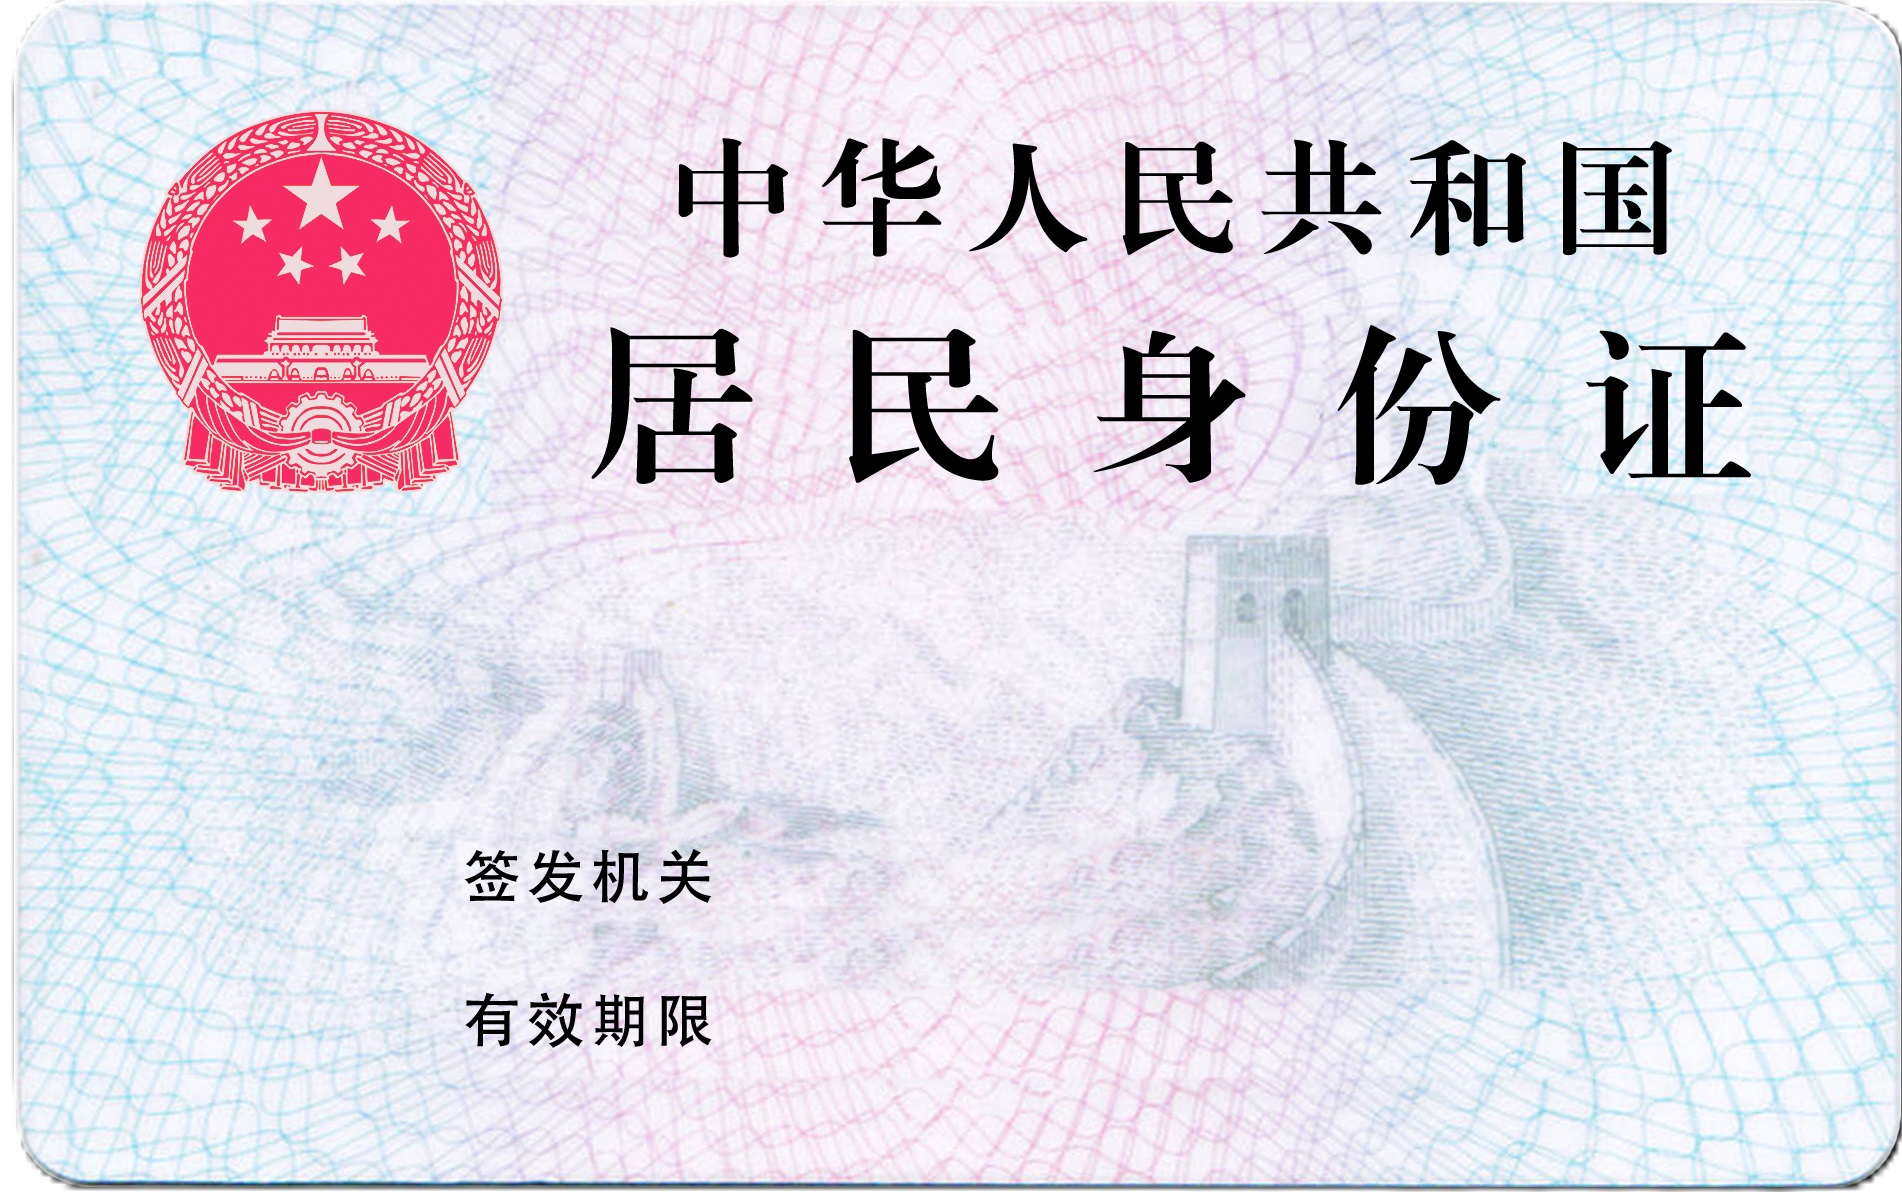
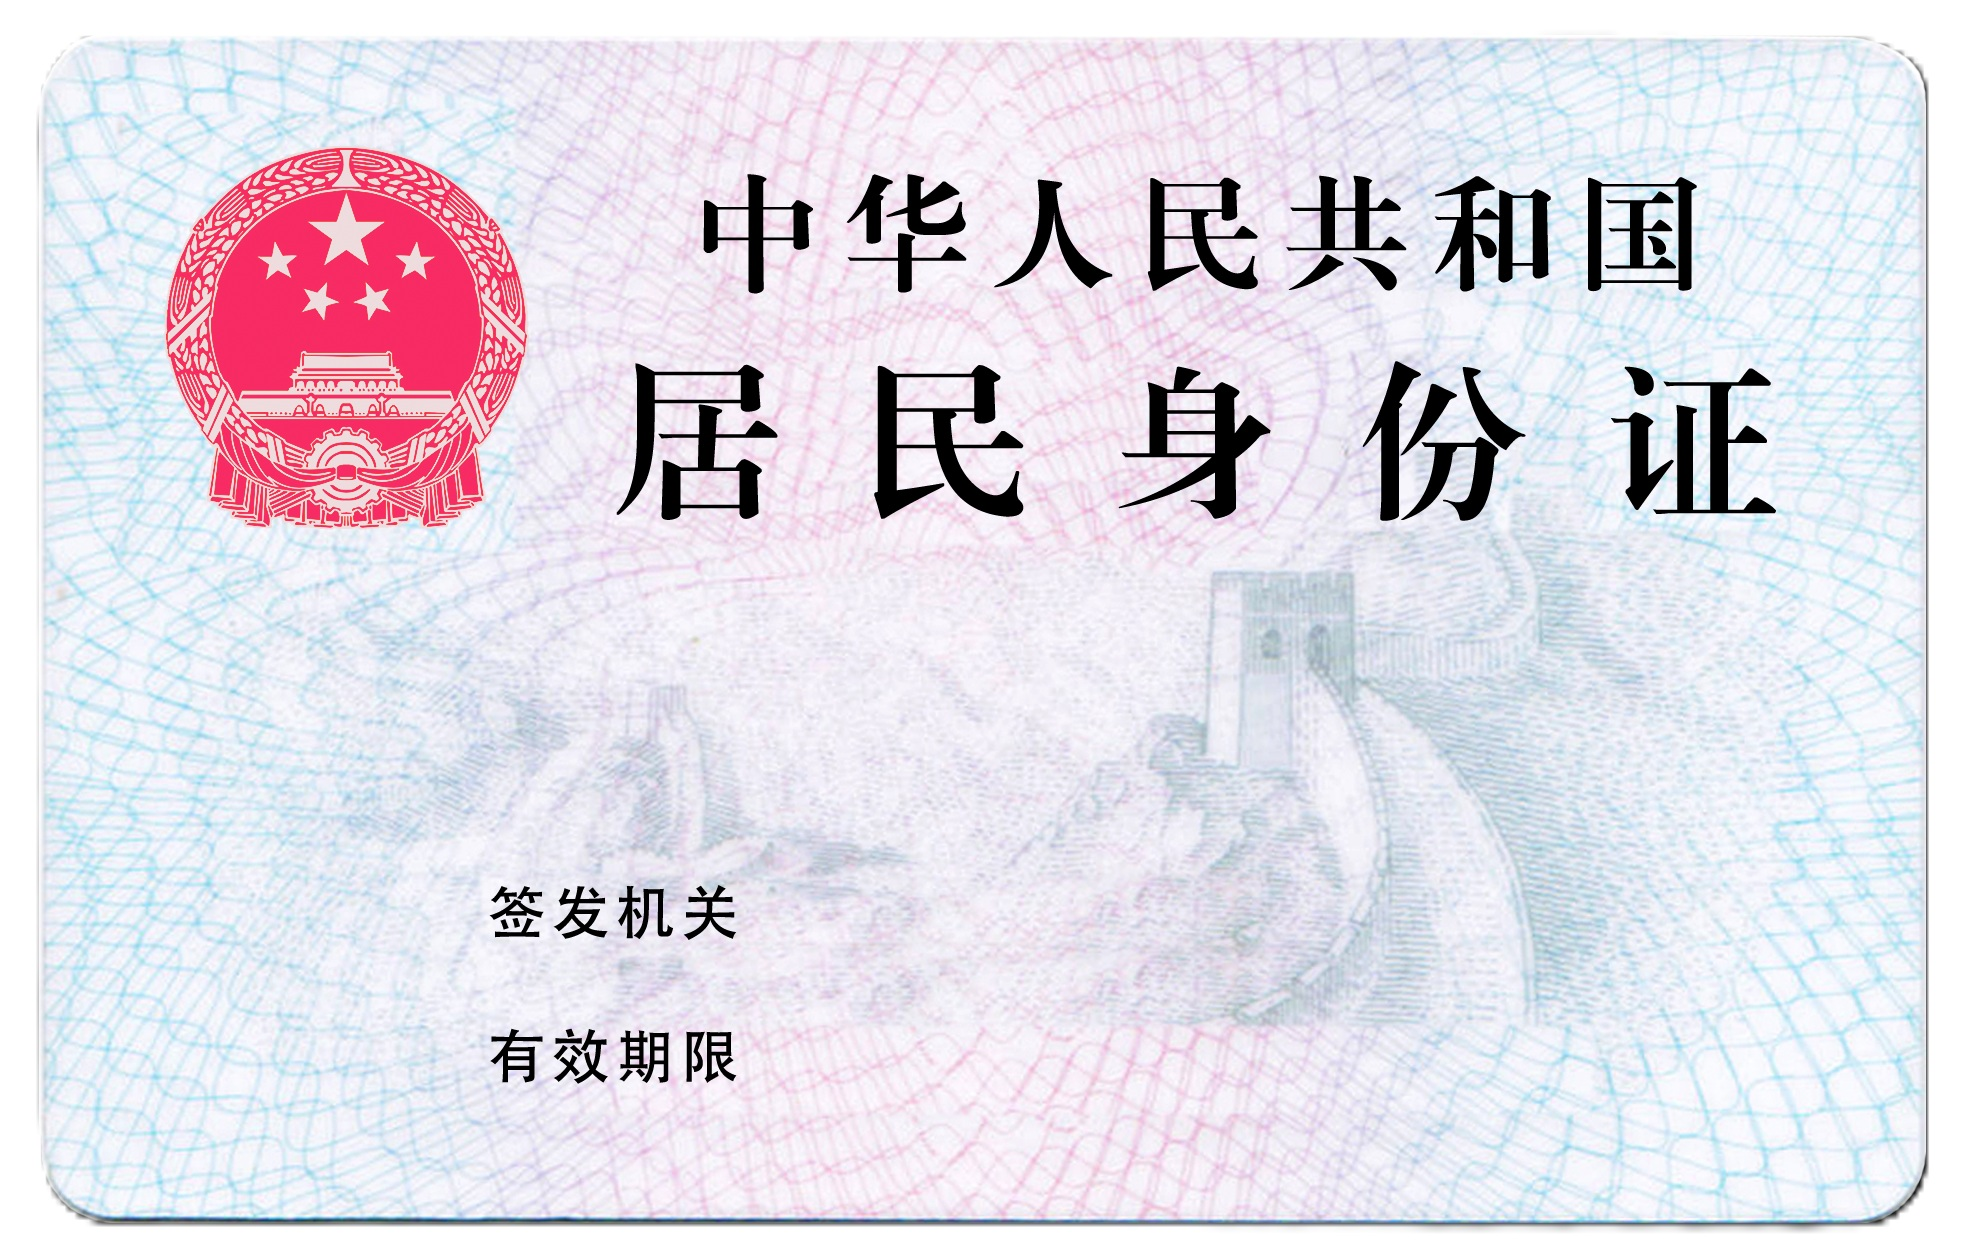
身份证底稿新增了四周的边框
身份证底稿新增了四周的边框

diff --git a/IdCardGenerator.py b/IdCardGenerator.py
@@ -902,11 +902,11 @@ class TypeSFZ(IDNOGenerator):
         image_src_back = path.join(path_src, "SFZ_empty_back.jpg")
         watermark_font = ImageFont.truetype('simhei.ttf', 60)
         name_font = ImageFont.truetype(path.join(path_src, 'hei.ttf'), 72)
-        other_font = ImageFont.truetype(path.join(path_src, 'hei.ttf'), 60)
-        birthday_font = ImageFont.truetype(path.join(path_src, 'fzhei.ttf'), 60)
+        other_font = ImageFont.truetype(path.join(path_src, 'msyhl.ttc'), 60)
+        birthday_font = ImageFont.truetype(path.join(path_src, 'msyhl.ttc'), 60)
         id_font = ImageFont.truetype(path.join(path_src, 'OCR-B 10 BT.ttf'), 72)
         back_issued_font = ImageFont.truetype('msyhl.ttc', 65)
-        back_date_font = ImageFont.truetype('msyhl.ttc', 60)
+        back_date_font = ImageFont.truetype('msyhl.ttc', 65)
 
         def draw_watermark(image: Image.Image) -> Image.Image:
             """
@@ -925,8 +925,8 @@ class TypeSFZ(IDNOGenerator):
 
             # 计算水印位置
             bbox = draw_watermark.textbbox((0, 0), watermark_text, font=watermark_font, align="left")
-            position1 = (10, 10)  # 左上角
-            position2 = (image.width - bbox[2] - 10, image.height - bbox[3] - 10)  # 右下角
+            position1 = (50, 50)  # 左上角
+            position2 = (image.width - bbox[2] - 50, image.height - bbox[3] - 50)  # 右下角
 
             # 绘制水印
             draw_watermark.text(position1, watermark_text, font=watermark_font, fill=watermark_color)
@@ -949,26 +949,26 @@ class TypeSFZ(IDNOGenerator):
             # 继续绘制其他信息
             draw = ImageDraw.Draw(watermarked_image, "RGBA")
             # 绘制中文姓名
-            draw.text((360, 215), name_ch, font=name_font, fill=(0, 0, 0))
+            draw.text((395, 240), name_ch, font=name_font, fill=(0, 0, 0))
             # 性别
-            draw.text((360, 350), gender, font=other_font, fill=(0, 0, 0))
+            draw.text((395, 370), gender, font=other_font, fill=(0, 0, 0))
             # 民族
-            draw.text((760, 350), '汉', font=other_font, fill=(0, 0, 0))
+            draw.text((795, 370), '汉', font=other_font, fill=(0, 0, 0))
             # 生日
             birthday_date: datetime.datetime = datetime.datetime.strptime(birthday, "%Y%m%d").date()
-            draw.text((360, 490), str(birthday_date.year), font=birthday_font, fill=(0, 0, 0))
-            draw.text((670, 490), str(birthday_date.month), font=birthday_font, fill=(0, 0, 0))
-            draw.text((850, 490), str(birthday_date.day), font=birthday_font, fill=(0, 0, 0))
+            draw.text((395, 510), str(birthday_date.year), font=birthday_font, fill=(0, 0, 0))
+            draw.text((720, 510), str(birthday_date.month), font=birthday_font, fill=(0, 0, 0))
+            draw.text((900, 510), str(birthday_date.day), font=birthday_font, fill=(0, 0, 0))
 
             # 住址
             address_list = [address[i:i+13] for i in range(0, len(address), 13)]
-            y_posintion = 635
+            y_posintion = 643
             for text in address_list:
-                draw.text((360, y_posintion), text, font=other_font, fill=(0, 0, 0))
-                y_posintion += 70
+                draw.text((395, y_posintion), text, font=other_font, fill=(0, 0, 0))
+                y_posintion += 85
 
             # 号码
-            draw.text((560, 990), id_no, font=id_font, fill=(0, 0, 0))
+            draw.text((685, 1020), id_no, font=id_font, fill=(0, 0, 0))
             # 头像
             if gender == '男':
                 head_portrait = Image.open(path.join(path_src, "male.png")).convert("RGBA")
@@ -985,9 +985,9 @@ class TypeSFZ(IDNOGenerator):
             # 保存前要转换下格式
             resized_image = resized_image.convert("RGB")
             # 保存
-            resized_image.save(image_dest, format='JPEG', optimize=True, quality=20)
+            resized_image.save(image_dest, format='JPEG', optimize=True, quality=30)
             # 显示
-            # watermarked_image.show()
+            # resized_image.show()
             return image_dest
 
         def draw_back_image():
@@ -1006,8 +1006,8 @@ class TypeSFZ(IDNOGenerator):
             formatted_begin_date = begin_date_obj.strftime("%Y.%m.%d")
             end_date_obj = datetime.datetime.strptime(end_date, "%Y%m%d")
             formatted_end_date = end_date_obj.strftime("%Y.%m.%d")
-            draw.text((860, 830), issued_depart, font=back_issued_font, fill=(0, 0, 0))
-            draw.text((860, 980), f"{formatted_begin_date}-{formatted_end_date}", font=back_date_font, fill=(0, 0, 0))
+            draw.text((810, 860), issued_depart, font=back_issued_font, fill=(0, 0, 0))
+            draw.text((810, 1010), f"{formatted_begin_date}-{formatted_end_date}", font=back_date_font, fill=(0, 0, 0))
 
             # 设置新的分辨率（例如，将图像缩小到原来的一半）
             new_width = int(watermarked_image.width / 2)
@@ -1017,6 +1017,9 @@ class TypeSFZ(IDNOGenerator):
             resized_image = watermarked_image.resize((new_width, new_height), Image.Resampling.BILINEAR)
             # 保存前转换下格式
             resized_image = resized_image.convert("RGB")
+            # 显示
+            # resized_image.show()
+            # 保存
             resized_image.save(image_dest, format='JPEG', optimize=True, quality=20)
             return image_dest
 
